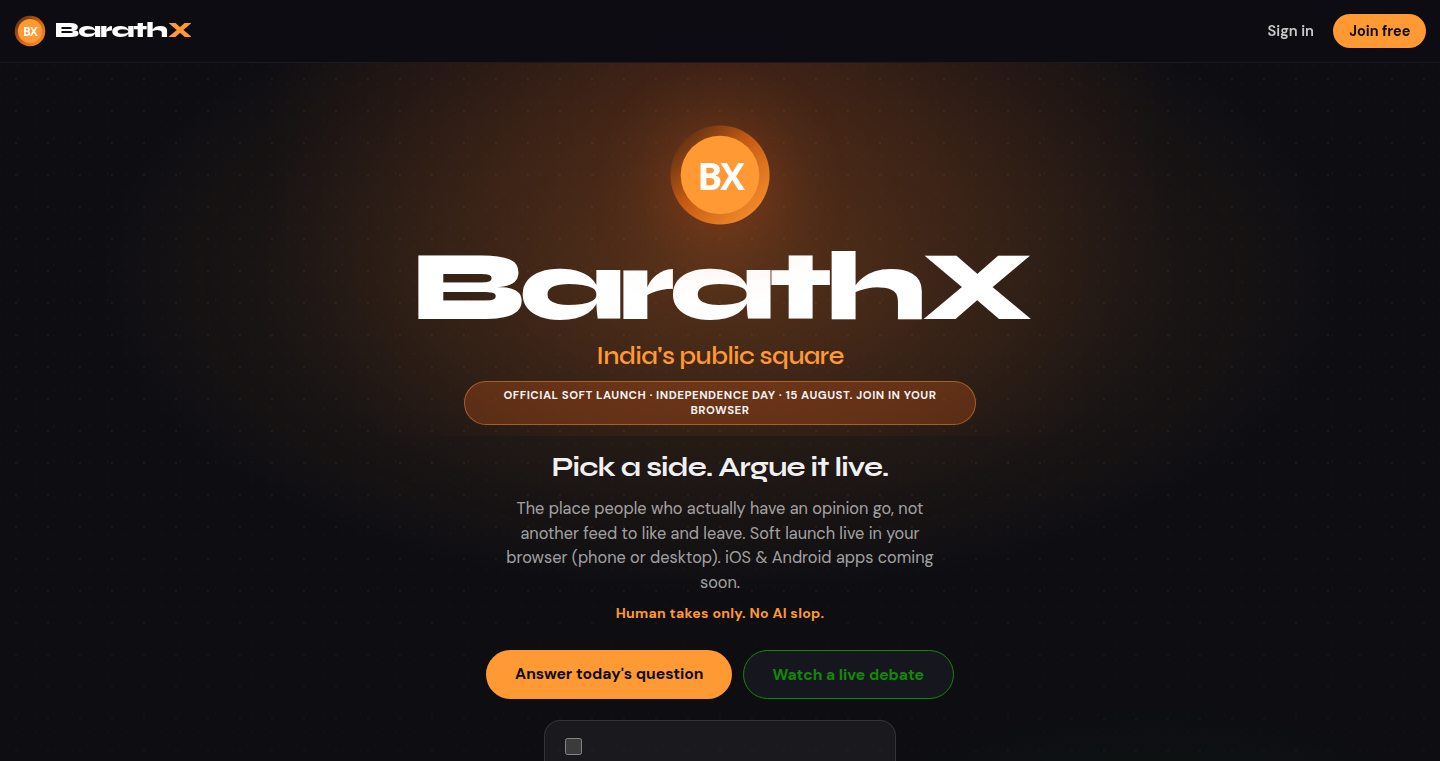
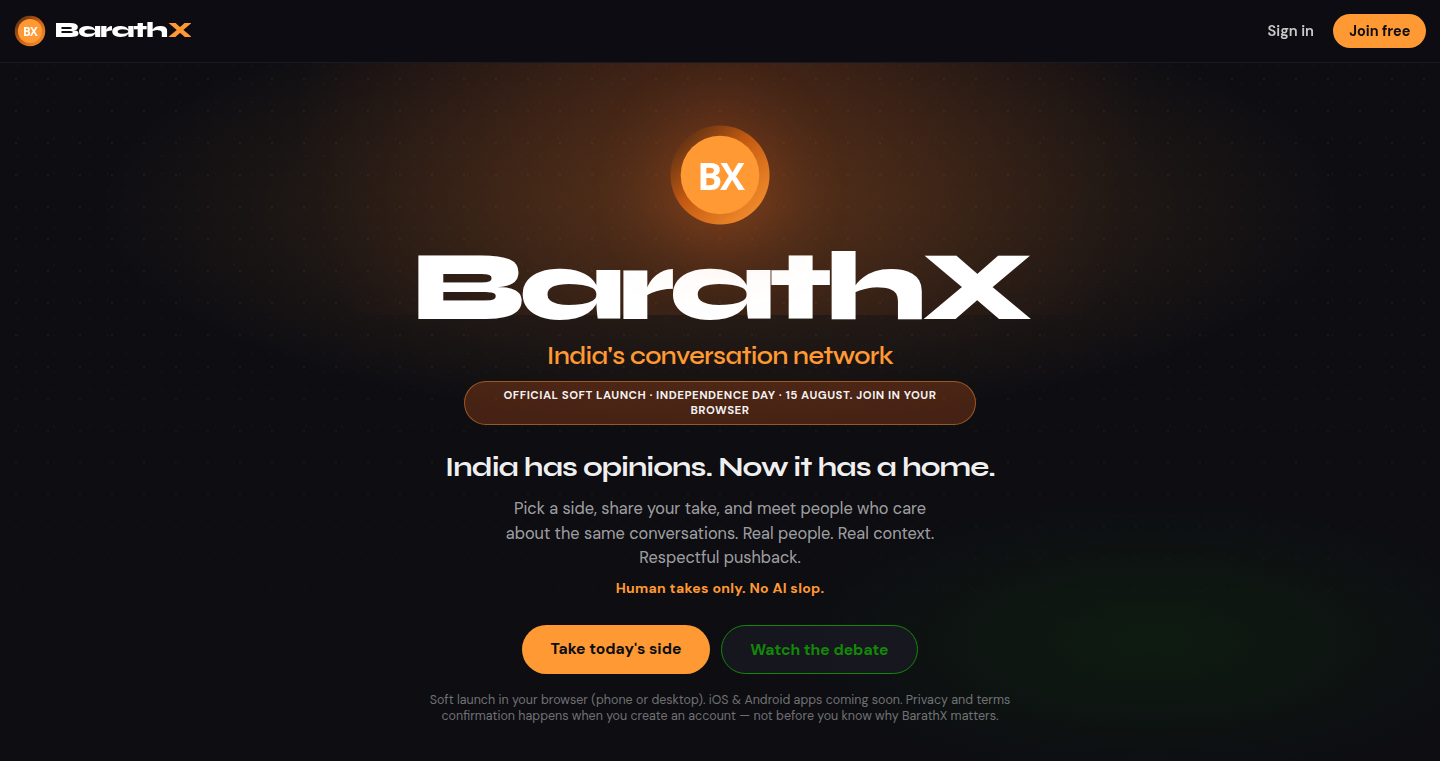
Regenerate Nikhil follow-up email, PPT, and PDF
Fresh email plus BarathX-Nikhil-Brief.pptx / One-Pager.pdf from
latest live screens — India-first, no AI slop, no adult content,
country blocks next, no 18+ claim.

Changed region(s): [[0.3125, 0.6649, 0.6875, 0.9974], [0.2812, 0.3929, 0.7188, 0.5742], [0.3125, 0.6045, 0.6875, 0.6347]]

diff --git a/brand/gtm/outreach/emails-2026-08-18/build_visual_deck.py b/brand/gtm/outreach/emails-2026-08-18/build_visual_deck.py
@@ -17,6 +17,8 @@ LIVE = OUT_DIR / "screens-live"
 FONTS = OUT_DIR / "_fonts"
 PPTX_OUT = OUT_DIR / "BarathX-Creator-Collab-Brief.pptx"
 PDF_OUT = OUT_DIR / "BarathX-One-Pager.pdf"
+NIKHIL_PPTX = OUT_DIR / "BarathX-Nikhil-Brief.pptx"
+NIKHIL_PDF = OUT_DIR / "BarathX-Nikhil-One-Pager.pdf"
 
 W, H = 1920, 1080
 
@@ -325,7 +327,12 @@ def build_pptx(paths):
         s = prs.slides.add_slide(blank)
         s.shapes.add_picture(str(p), 0, 0, width=prs.slide_width, height=prs.slide_height)
     prs.save(PPTX_OUT)
+    # Nikhil / advisor-facing copy of the same visual brief
+    import shutil
+
+    shutil.copy2(PPTX_OUT, NIKHIL_PPTX)
     print(f"Wrote {PPTX_OUT}")
+    print(f"Wrote {NIKHIL_PPTX}")
 
 
 def build_pdf():
@@ -396,7 +403,11 @@ def build_pdf():
     c.drawImage(ImageReader(tmp), 0, 0, width=page_w, height=page_h, preserveAspectRatio=False, mask="auto")
     c.showPage()
     c.save()
+    import shutil
+
+    shutil.copy2(PDF_OUT, NIKHIL_PDF)
     print(f"Wrote {PDF_OUT}")
+    print(f"Wrote {NIKHIL_PDF}")
 
 
 def main():

diff --git a/brand/gtm/outreach/emails-2026-08-18/09-nikhil-kamath-followup.md b/brand/gtm/outreach/emails-2026-08-18/09-nikhil-kamath-followup.md
@@ -1,41 +1,41 @@
 # To: info@allthingswtf.com  
 # CC (optional): letscreate@allthingswtf.com  
-# Subject: Follow-up — we’re building the Indian social you described
+# Subject: Follow-up — BarathX is the Indian social you described
 
 ---
 
-Hi Nikhil / All Things WTF team,
+Hi Nikhil / team,
 
-Sharath here again from BarathX — following up briefly.
+Sharath again from BarathX.
 
-Watched your conversation where you talk about building a social product out of India: youth hours going to foreign apps, wanting a place for real people and real discourse, not an algorithm that runs on rage, and hoping it doesn’t have to become another ads machine.
+You talked about building a social product out of India — real people, real discourse, not a rage algorithm, and not another ads machine while foreign apps own most of India’s phone time.
 
-**We’re exactly building what you’re looking for — specially for India.**  
-Not a clone of Instagram/X. An Indian-owned public square for sided debate, made for how people here already argue.
+**We’re exactly building what you’re looking for — specially for India.**
 
-**BarathX** (barathx.com) = Square · Arenas · Live.  
+**BarathX** (https://barathx.com) is India’s public square: Square · Arenas · Live.  
 Built by Indians, for Indians, owned by Indians. Soft launch is live in the browser.
 
-What we locked as product, not marketing:
+Product, not pitch fluff:
 
-- **Human takes only. No AI slop.** Likely-AI drafts get flagged and demoted; real replies rise.  
-- **Safe square — we do not encourage adult content.** Adult / sexual content is blocked in posts, replies, DMs, and Live. Report paths + community guidelines are in-product.  
-- **Country-based restrictions next.** We’ll tighten geo controls against sources that target the square with adult or abusive traffic.  
-- **India DPDP.** Consent at signup, export/delete in Settings, privacy@barathx.com.  
-- **Not an ads feed.** Built for discourse — not selling attention or pay-to-post growth games.  
-- **Pick a side. Argue it live.** Takes stay on the record instead of dying in WhatsApp.
+1. **Human takes only. No AI slop.** AI-looking drafts flagged and demoted. Real replies rise.  
+2. **We do not encourage adult content.** Adult / sexual content is blocked in posts, replies, DMs, and Live. Guidelines + report paths are in-product.  
+3. **Country-based restrictions next** — geo controls against sources that target the square with adult or abusive traffic.  
+4. **India DPDP** — consent, export/delete, privacy@barathx.com.  
+5. **Not an ads feed** — built for sided debate, not selling attention.  
+6. **Pick a side. Argue it live** — takes stay on the record instead of dying in WhatsApp.
 
-I know you’re busy. Even 2 minutes on barathx.com (pick a side → leave one take) would mean a lot. Happy to do 10 minutes if useful.
+Two minutes on barathx.com (pick a side → one take) would mean a lot. Happy to jump on 10 minutes if useful.
 
-Updated one-pager + short deck attached (latest UI + safety / human-first / India-first / no-ads positioning).
+Fresh one-pager + deck attached (latest midnight UI).
 
-Thanks for reading —  
-Sharath  
+— Sharath  
 Founder, BarathX  
 barathx.com · @getbarathx · hello@barathx.com
 
 ---
 
-**Attach:** `BarathX-One-Pager.pdf` + `BarathX-Creator-Collab-Brief.pptx`  
-**Video ref:** https://youtu.be/7fw2Ob6w3Gg  
-**Prod note (Aug 2026):** 18+ signup gate deferred for soft launch reach — do **not** claim 18+ in outreach. Adult content still blocked; country-based restrictions planned.
+**Attach these (new):**
+- `BarathX-Nikhil-One-Pager.pdf`
+- `BarathX-Nikhil-Brief.pptx`
+
+**Video:** https://youtu.be/7fw2Ob6w3Gg

diff --git a/brand/gtm/outreach/emails-2026-08-18/SHORT-EMAILS.md b/brand/gtm/outreach/emails-2026-08-18/SHORT-EMAILS.md
@@ -114,18 +114,22 @@ Sharath · @getbarathx
 
 ---
 
+---
+
 ## Nikhil Kamath / All Things WTF — FOLLOW-UP — info@allthingswtf.com
-**Subject:** Follow-up — we’re building the Indian social you described
+**Subject:** Follow-up — BarathX is the Indian social you described
 
-Hi Nikhil / All Things WTF team — Sharath again from BarathX.
+Hi Nikhil / team — Sharath again from BarathX.
 
-Watched your talk on building social out of India (real discourse, not rage algorithms, not another ads machine).
+You described building social out of India: real discourse, not rage algorithms, not another ads machine.
 
-**We’re exactly building what you’re looking for — specially for India.** BarathX: India’s public square. Built by Indians, for Indians, owned by Indians. Soft launch: barathx.com
+**We’re exactly building what you’re looking for — specially for India.** Soft launch: barathx.com
 
 Human takes only · No AI slop · No adult content (country blocks next) · DPDP · Not an ads feed · Pick a side, argue live.
 
-2 minutes on the site would mean a lot. Deck + one-pager attached.
+2 minutes on the site would mean a lot. New one-pager + deck attached.
 
 Sharath · barathx.com · @getbarathx
+
+**Attach:** `BarathX-Nikhil-One-Pager.pdf` + `BarathX-Nikhil-Brief.pptx`
 

diff --git a/brand/gtm/outreach/emails-2026-08-18/README.md b/brand/gtm/outreach/emails-2026-08-18/README.md
@@ -2,8 +2,10 @@
 
 ## Send these
 - **[SHORT-EMAILS.md](./SHORT-EMAILS.md)** — crisp versions (use these)
-- **[BarathX-One-Pager.pdf](./BarathX-One-Pager.pdf)** — **default attach** (visual, live screens)
-- **[BarathX-Creator-Collab-Brief.pptx](./BarathX-Creator-Collab-Brief.pptx)** — 6 visual slides with product screens
+- **[BarathX-One-Pager.pdf](./BarathX-One-Pager.pdf)** — default attach
+- **[BarathX-Creator-Collab-Brief.pptx](./BarathX-Creator-Collab-Brief.pptx)** — visual deck
+- **[BarathX-Nikhil-One-Pager.pdf](./BarathX-Nikhil-One-Pager.pdf)** + **[BarathX-Nikhil-Brief.pptx](./BarathX-Nikhil-Brief.pptx)** — Nikhil follow-up pack
+- **[09-nikhil-kamath-followup.md](./09-nikhil-kamath-followup.md)** — full Nikhil email
 - **[HOW-TO-SHARE.md](./HOW-TO-SHARE.md)** — PDF + PPT > MD
 
 Rebuild visuals (live midnight screens): `python3 build_visual_deck.py`
